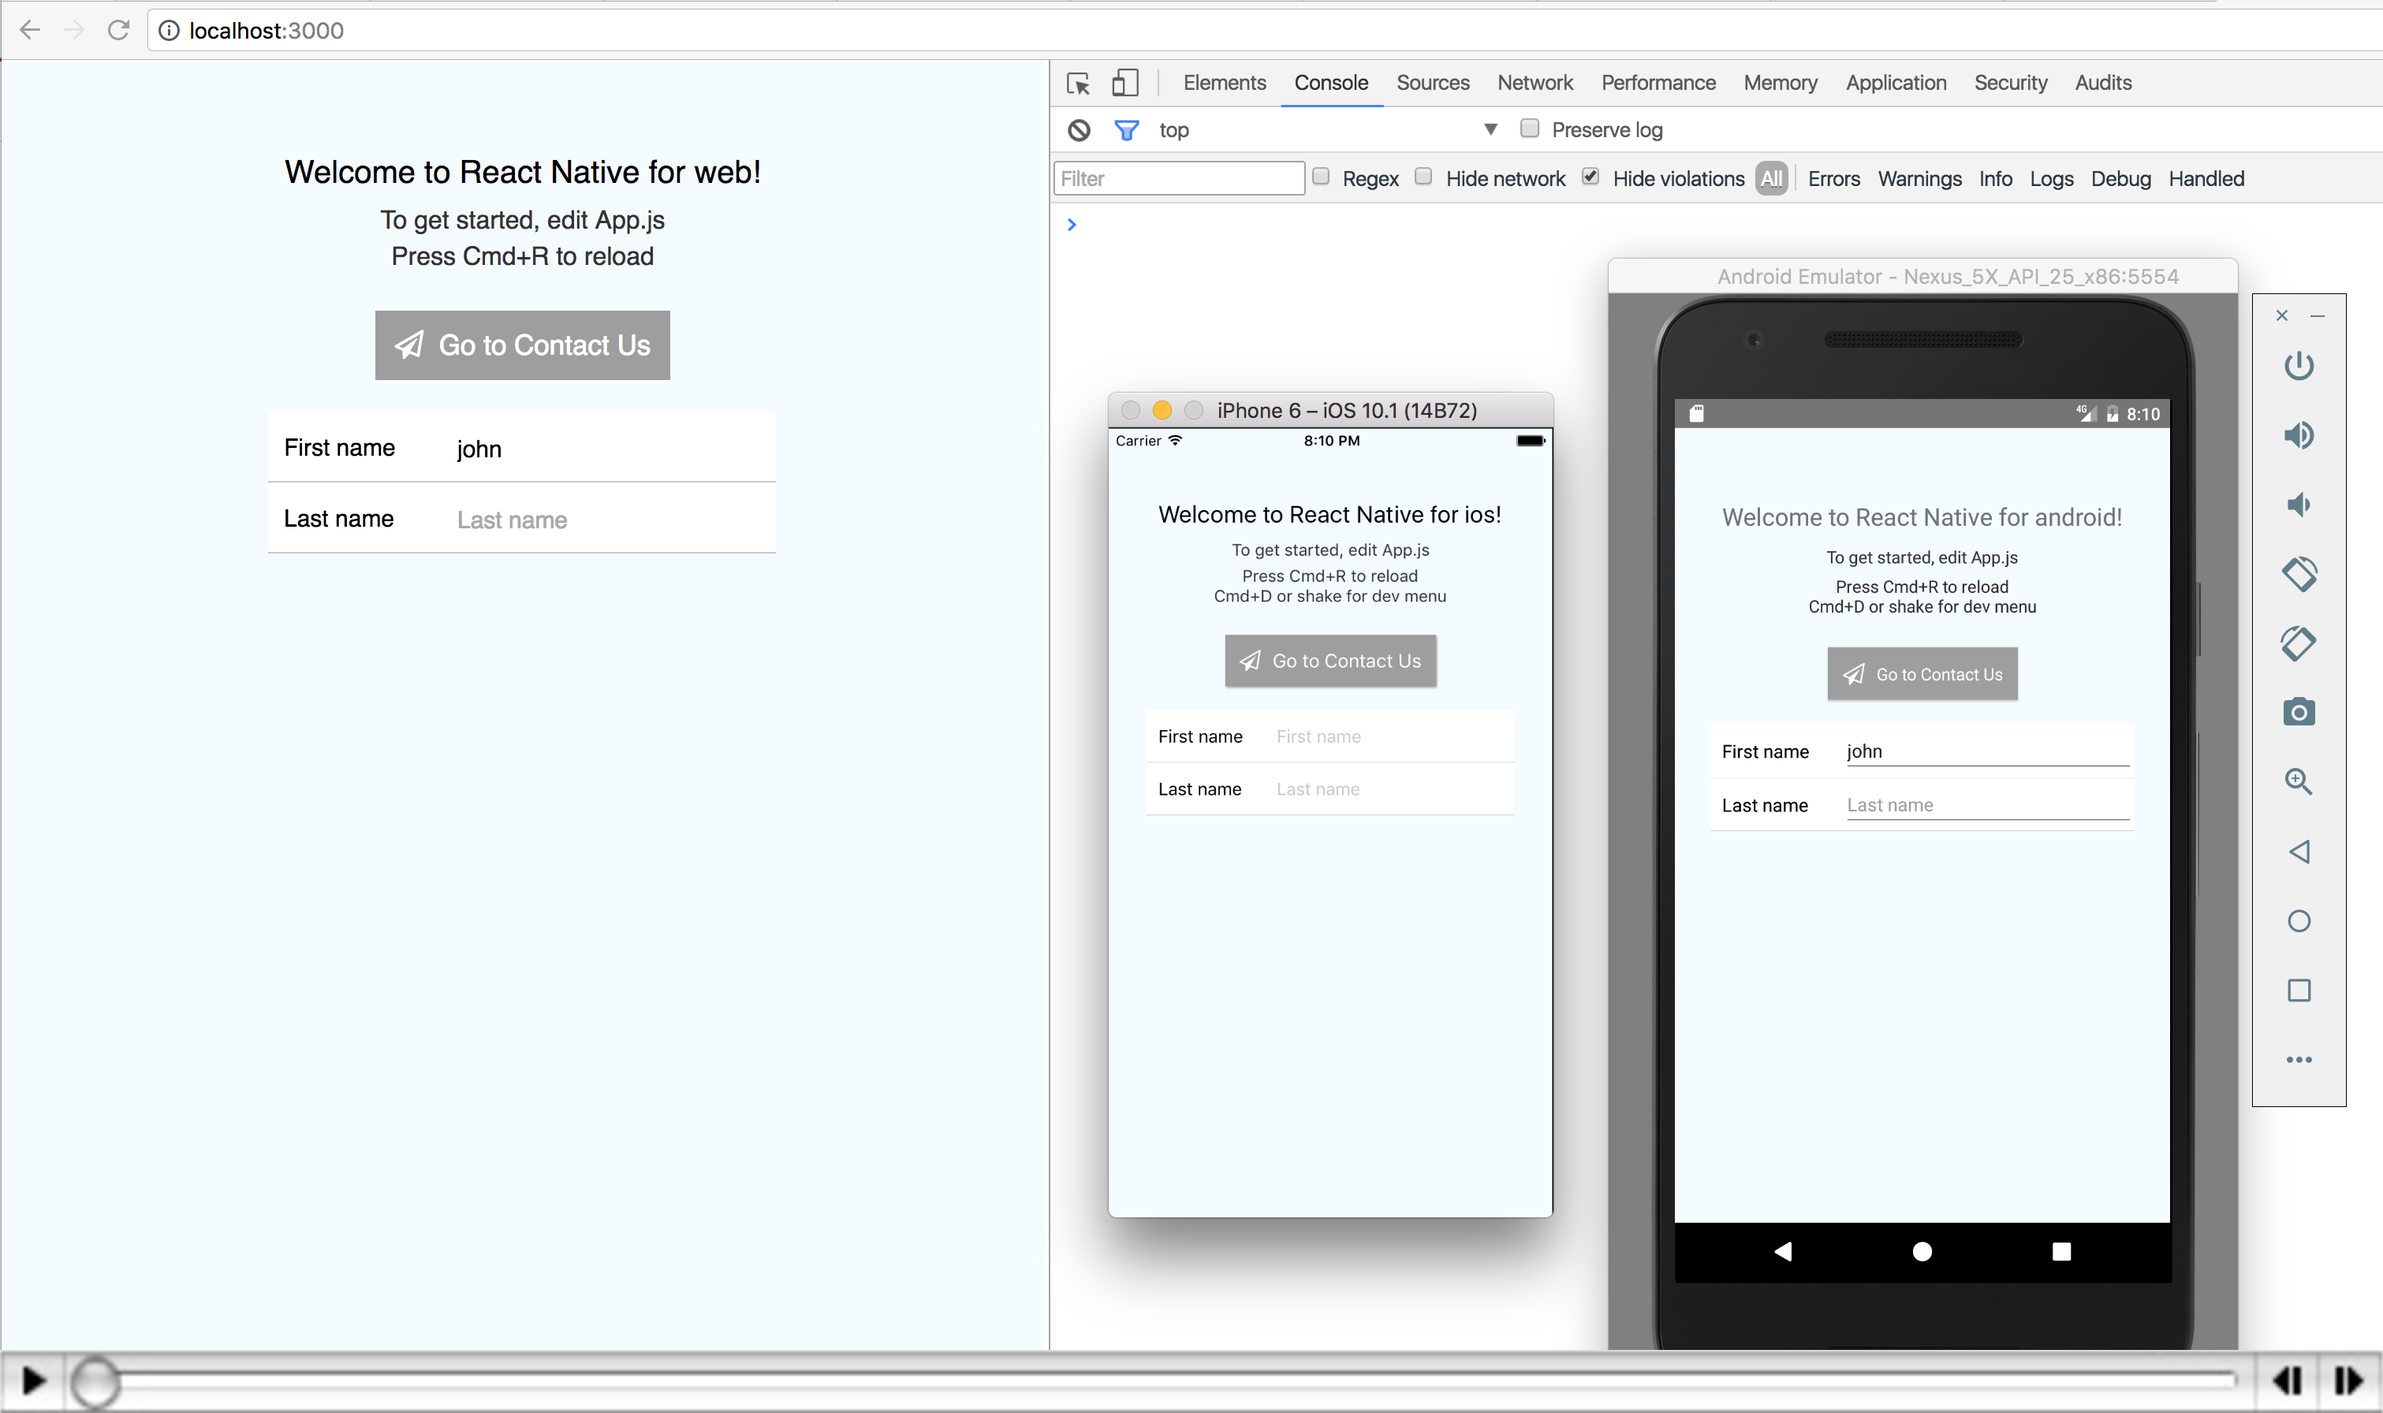
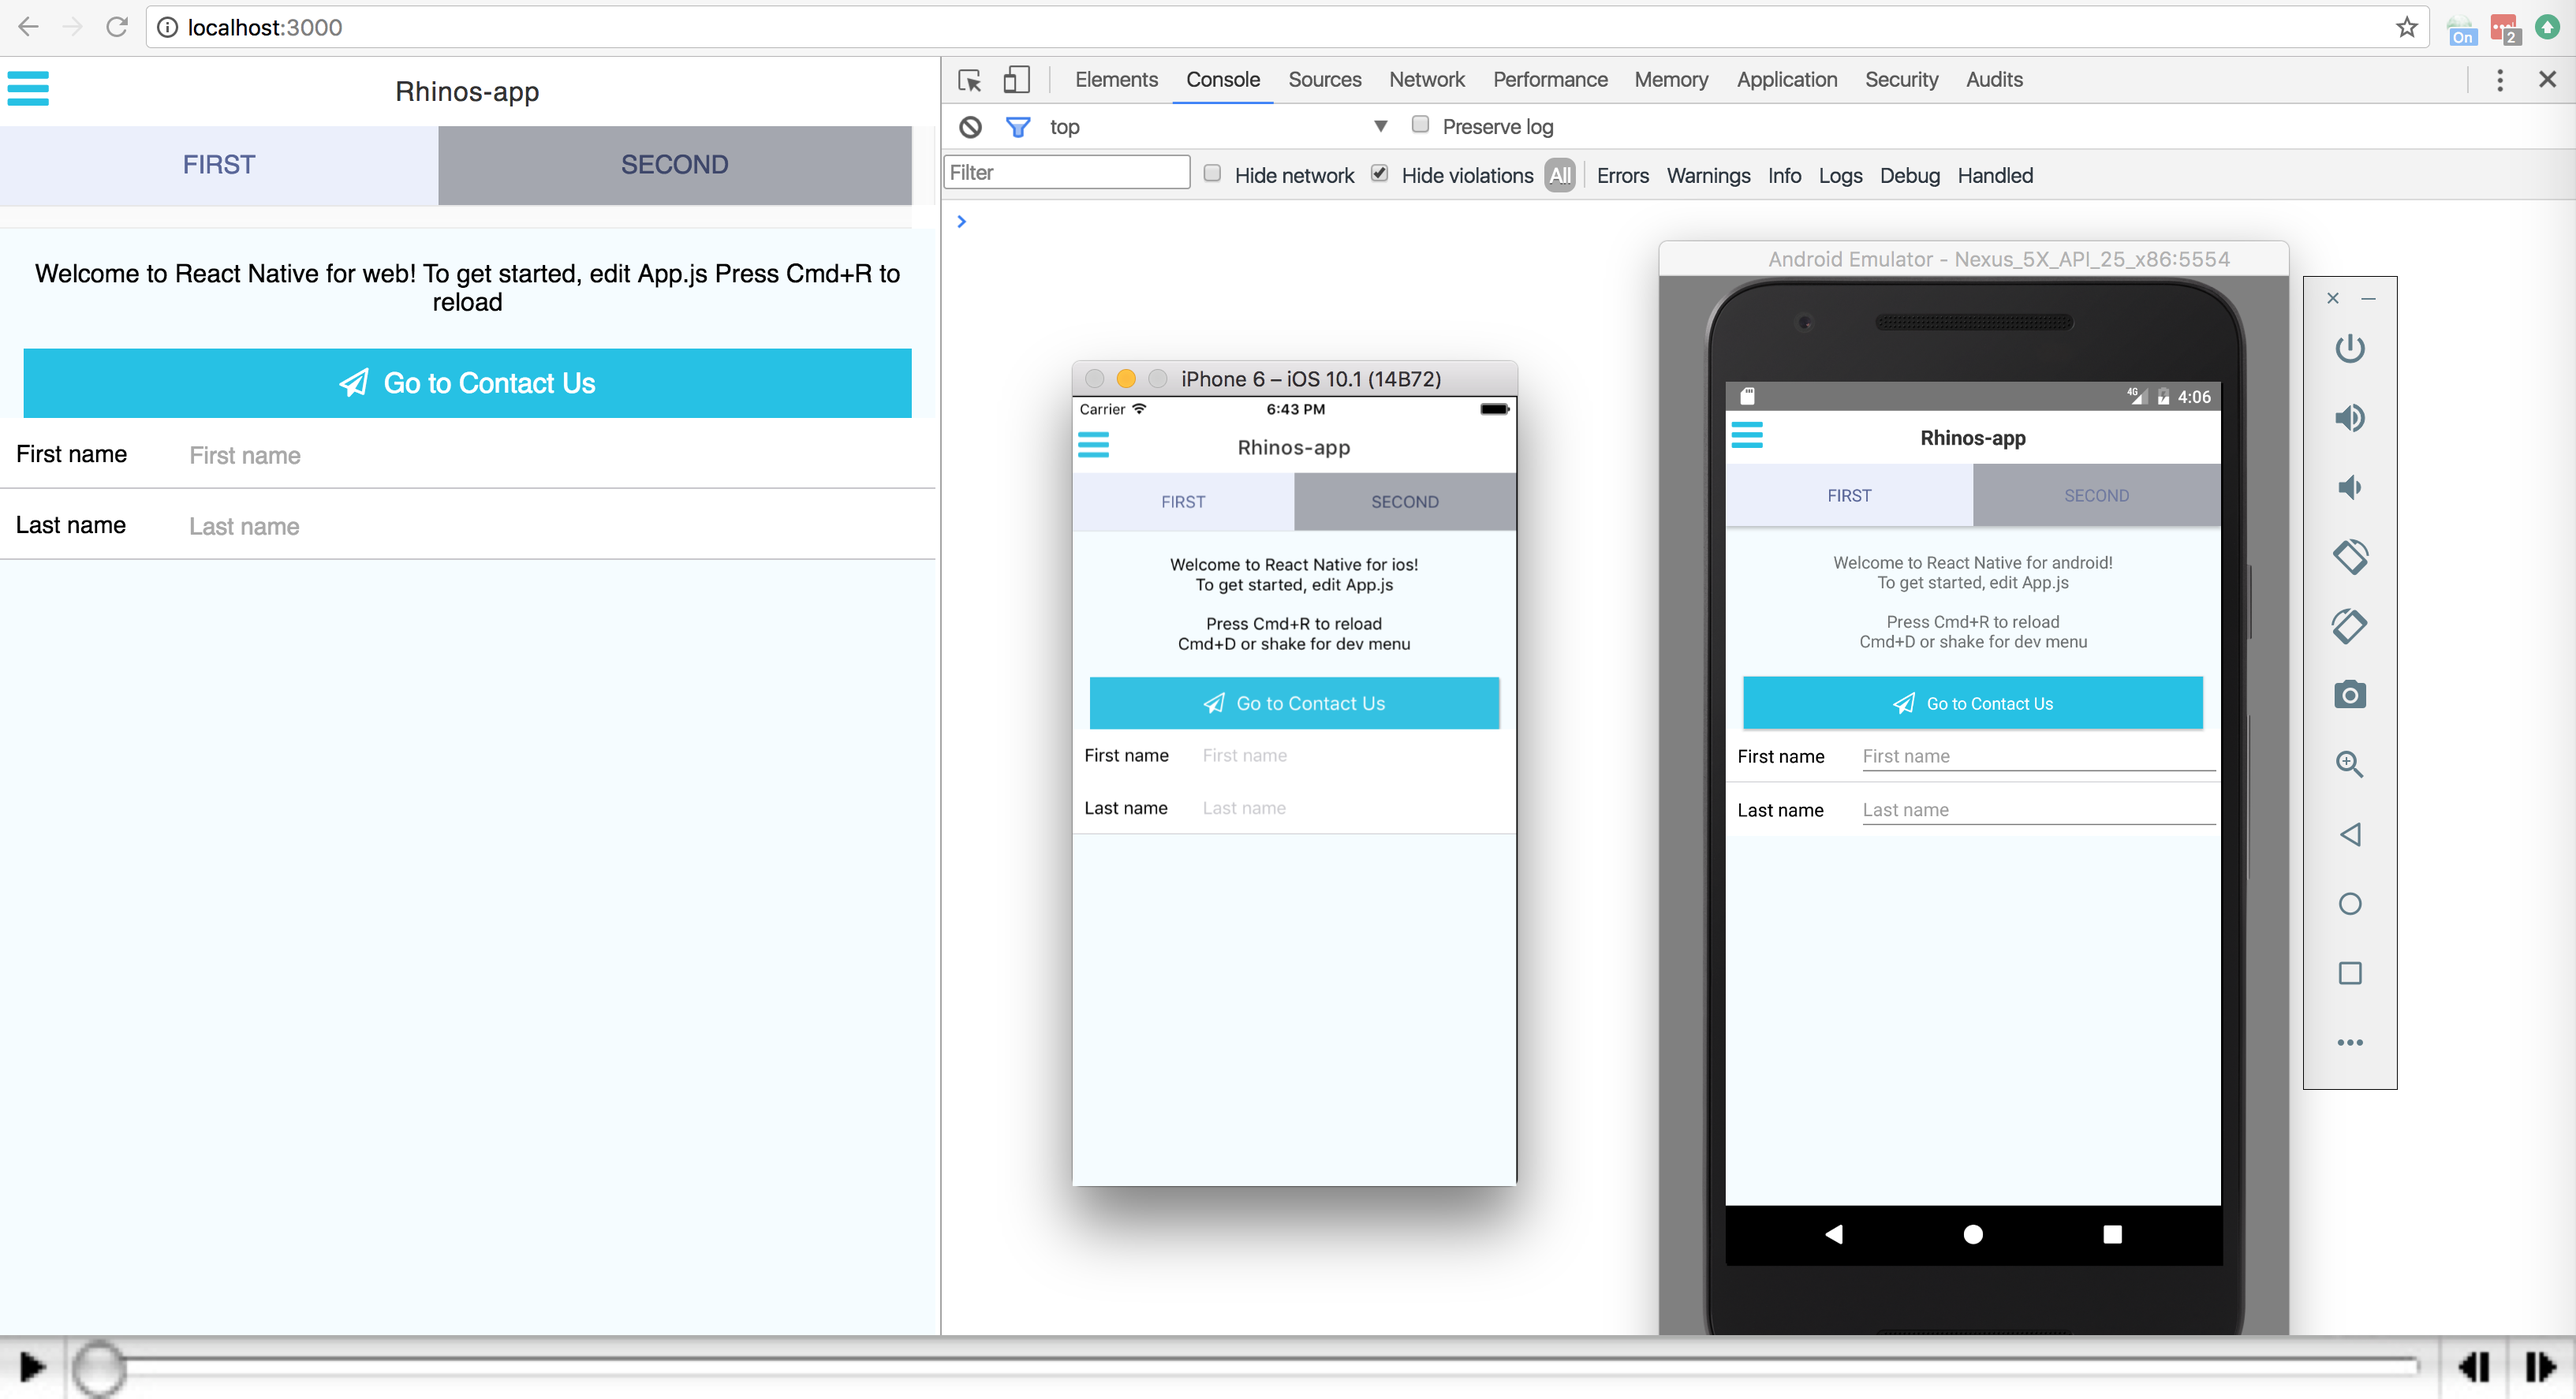
feat: added react-native-tab-view; refactor styles;

diff --git a/App/View/FirstView.js b/App/View/FirstView.js
@@ -1,0 +1,99 @@
+import React from 'react'
+import {
+  StyleSheet,
+  Text,
+  View,
+  Platform
+} from 'react-native'
+import { Button } from 'react-native-elements'
+import { TabViewAnimated, TabBarTop } from 'react-native-tab-view'
+import baseStyles from '../baseStyles'
+
+const { GiftedForm } = require('react-native-gifted-form')
+
+export default class FirstView extends React.Component {
+  state = {
+    index: 0,
+    routes: [
+      { key: '1', title: 'First' },
+      { key: '2', title: 'Second' },
+    ]
+  }
+
+  _handleChangeTab = (index) => {
+    this.setState({ index })
+  }
+
+  _renderHeader = (props) => {
+    return <TabBarTop {...props} tabStyle={{ backgroundColor: baseStyles.brandLight }} labelStyle={{ color: '#596698' }} />
+  }
+
+  _renderScene = ({ route }) => {
+    switch (route.key) {
+      case '1':
+        return <View style={[ styles.page, { backgroundColor: '#F5FCFF' } ]}>
+          <Text style={baseStyles.center}>
+            Welcome to React Native for {Platform.OS}!{'\n'}
+            To get started, edit App.js{'\n\n'}
+            Press Cmd+R to reload{'\n'}
+            { Platform.OS !== 'web' ? 'Cmd+D or shake for dev menu' : '' }
+          </Text>
+
+          <Button
+            raised
+            backgroundColor={baseStyles.brand}
+            icon={{ name: 'paper-plane-o', type: 'font-awesome' }}
+            title="Go to Contact Us"
+            onPress={() => this.props.nav.linkTo('contactUs')}
+            buttonStyle={baseStyles.link}
+          />
+
+          <GiftedForm style={styles.myForm}>
+            <GiftedForm.TextInputWidget
+              name="firstName"
+              title="First name"
+              placeholder="First name"
+              clearButtonMode="while-editing"
+            />
+            <GiftedForm.TextInputWidget
+              name="lastName"
+              title="Last name"
+              placeholder="Last name"
+              clearButtonMode="while-editing"
+            />
+          </GiftedForm>
+        </View>
+      case '2':
+        return <View style={[ styles.page, { backgroundColor: '#a4caff' } ]} />
+      default:
+        return null;
+    }
+  };
+
+  render () {
+    return (
+      <TabViewAnimated
+        style={styles.container}
+        navigationState={this.state}
+        renderScene={this._renderScene}
+        renderHeader={this._renderHeader}
+        onRequestChangeTab={this._handleChangeTab}
+      />
+    )
+  }
+}
+
+const styles = StyleSheet.create({
+  container: {
+    flex: 1,
+    flexDirection: 'column',
+    justifyContent: 'flex-start',
+    alignItems: 'stretch',
+    backgroundColor: '#F5FCFF'
+  },
+  page: {
+    flex: 1,
+    alignItems: 'stretch',
+    paddingTop: 20
+  }
+})

diff --git a/App/View/App.js b/App/View/App.js
@@ -1,19 +1,22 @@
 /* eslint-disable no-unused-vars */
 import React, { Component } from 'react'
 import { StyleSheet, View, TouchableOpacity } from 'react-native'
-import { SideMenu } from 'react-native-elements'
+import { SideMenu, Button } from 'react-native-elements'
 import NavigationBar from 'react-native-navbar'
 import Icon from 'react-native-vector-icons/FontAwesome'
 
 import AppMenu from './AppMenu'
+import FirstView from './FirstView'
 import SimpleNavigator from './SimpleNavigator'
-import MainView from './MainView'
 import ContactUsView from './ContactUsView'
 import AboutView from './AboutView'
+import baseStyles from '../baseStyles'
 import AppInit from 'utils/init' // Webpack alias for Web mode: 'init.web.js'
 
 export class App extends Component {
-  state = { toggled: false }
+  state = {
+    toggled: false
+  }
 
   toggleSideMenu = (showFlag) => {
     this.setState({
@@ -24,7 +27,7 @@ export class App extends Component {
   render () {
     const leftButtonConfig = (
       <TouchableOpacity onPress={() => this.toggleSideMenu()} style={{ margin: 5 }}>
-        <Icon name="bars" size={30} color="#008a7d" />
+        <Icon name="bars" size={30} color={baseStyles.brand} />
       </TouchableOpacity>
     )
     const titleConfig = { title: 'Rhinos-app' }
@@ -35,11 +38,10 @@ export class App extends Component {
         toggled={this.state.toggled}
       >
         <View style={styles.view}>
-          <NavigationBar
-            title={titleConfig}
-            leftButton={leftButtonConfig} />
+          <NavigationBar title={titleConfig} leftButton={leftButtonConfig} />
+
           <SimpleNavigator views={{
-                             initialView: MainView,
+                             initialView: FirstView,
                              contactUs: ContactUsView,
                              about: AboutView
                            }}
@@ -54,9 +56,6 @@ export class App extends Component {
 const styles = StyleSheet.create({
   view: {
     flex: 1,
-    flexDirection: 'column',
-    justifyContent: 'flex-start',
-    alignItems: 'stretch',
-    backgroundColor: '#F5FCFF'
+    backgroundColor: '#fff'
   }
 })

diff --git a/App/View/AppMenu.js b/App/View/AppMenu.js
@@ -1,12 +1,13 @@
 import React from 'react'
 import { View } from 'react-native'
 import { List, ListItem } from 'react-native-elements'
+import baseStyles from '../baseStyles'
 
 export default class AppMenu extends React.Component {
   render () {
     const list = [{ name: 'Test Menu', subtitle: 'This is a dummy menu', avatar_url: 'http://yahoo.com' }]
     return (
-      <View style={{ flex: 1, backgroundColor: '#bcd2d0', paddingTop: 50 }}>
+      <View style={{ flex: 1, backgroundColor: baseStyles.brandDark, paddingTop: 50 }}>
         <List containerStyle={{ marginBottom: 20 }}>
           {
             list.map((item, i) => (

diff --git a/App/baseStyles.js b/App/baseStyles.js
@@ -2,7 +2,7 @@ import {
   StyleSheet
 } from 'react-native'
 
-export default StyleSheet.create({
+const style = StyleSheet.create({
   view: {
     padding: 10,
     paddingTop: 10,
@@ -13,5 +13,14 @@ export default StyleSheet.create({
   },
   link: {
     marginTop: 20
+  },
+  center: {
+    textAlign: 'center'
   }
 })
+
+style.brand = '#27c1e4'
+style.brandDark = '#202d5c'
+style.brandLight = '#ebeffb'
+
+export default style

diff --git a/App/View/ContactUsView.js b/App/View/ContactUsView.js
@@ -17,7 +17,7 @@ export default class ContactUsView extends React.Component {
 
         <Button
           raised
-          backgroundColor="#008a7d"
+          backgroundColor={baseStyles.brand}
           icon={{ name: 'info-circle', type: 'font-awesome' }}
           title="Go to About Us"
           onPress={() => this.props.nav.linkTo('about')}

diff --git a/App/View/SimpleNavigator.js b/App/View/SimpleNavigator.js
@@ -39,9 +39,7 @@ export default class SimpleNavigator extends React.Component {
     }
 
     return (
-      <Animated.View
-        style={{ opacity: this.state.fadeFxValue }}
-      >
+      <Animated.View style={{ flex: 1, opacity: this.state.fadeFxValue }}>
         <this.currentComp nav={this} />
       </Animated.View>
     )
